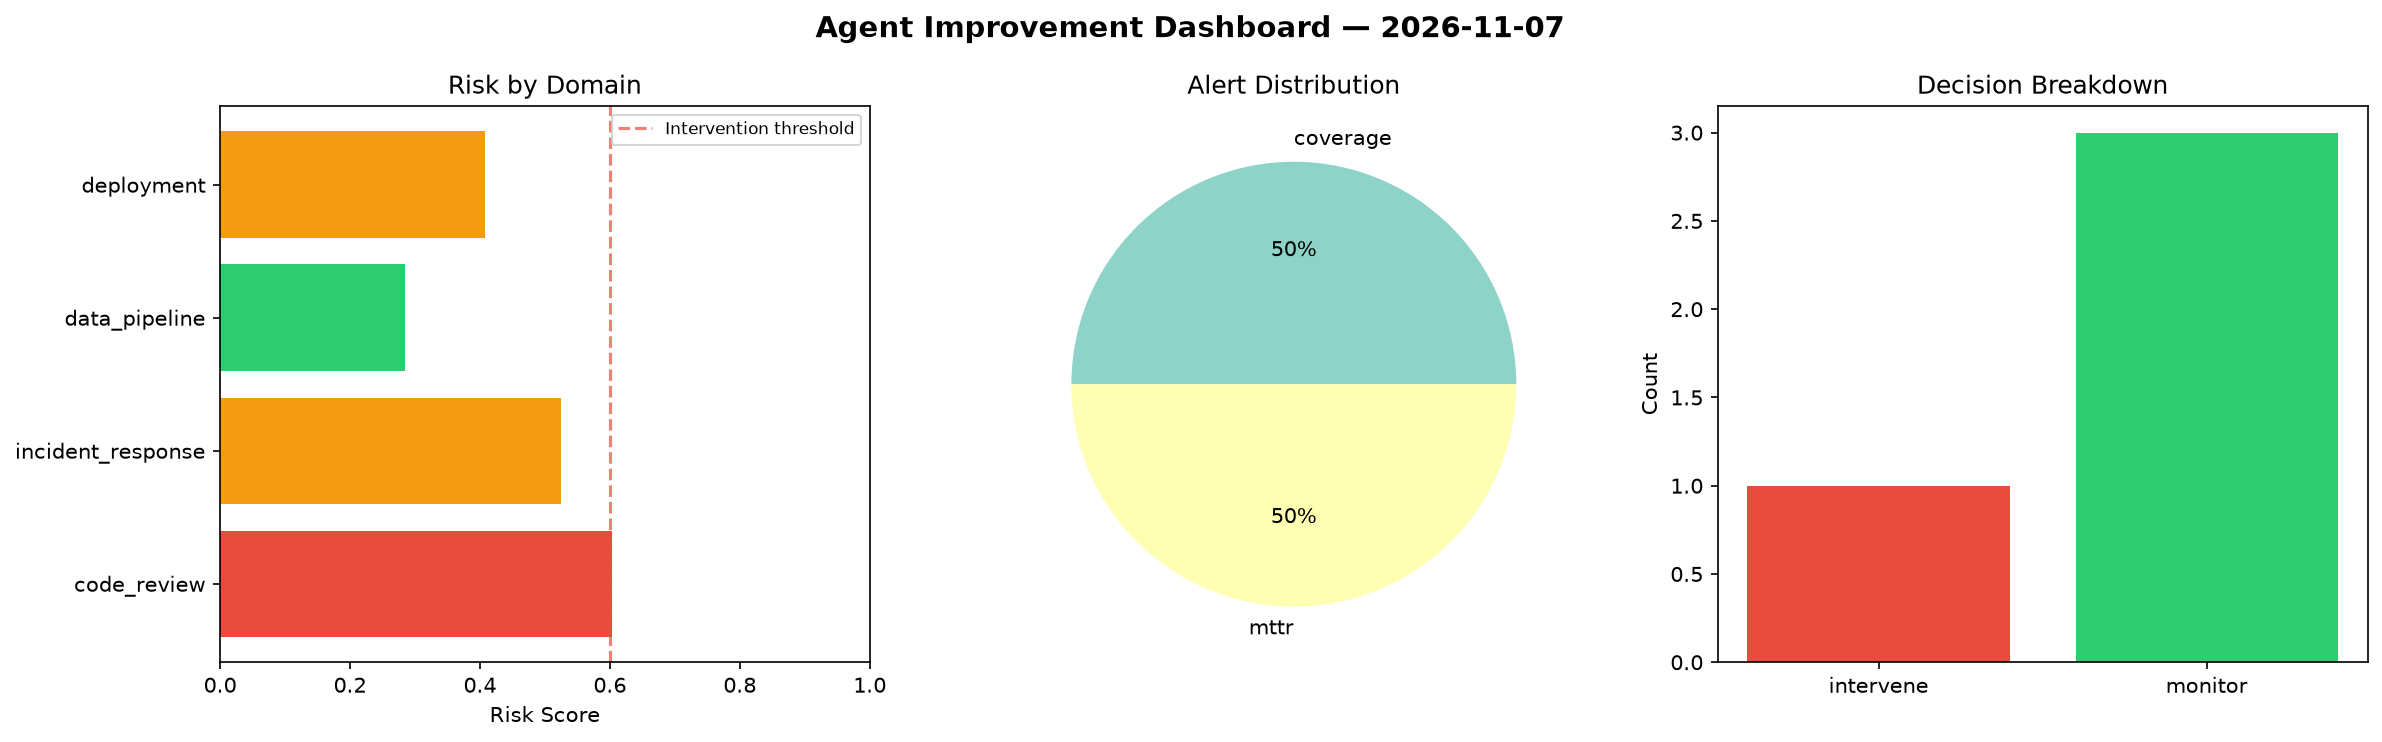
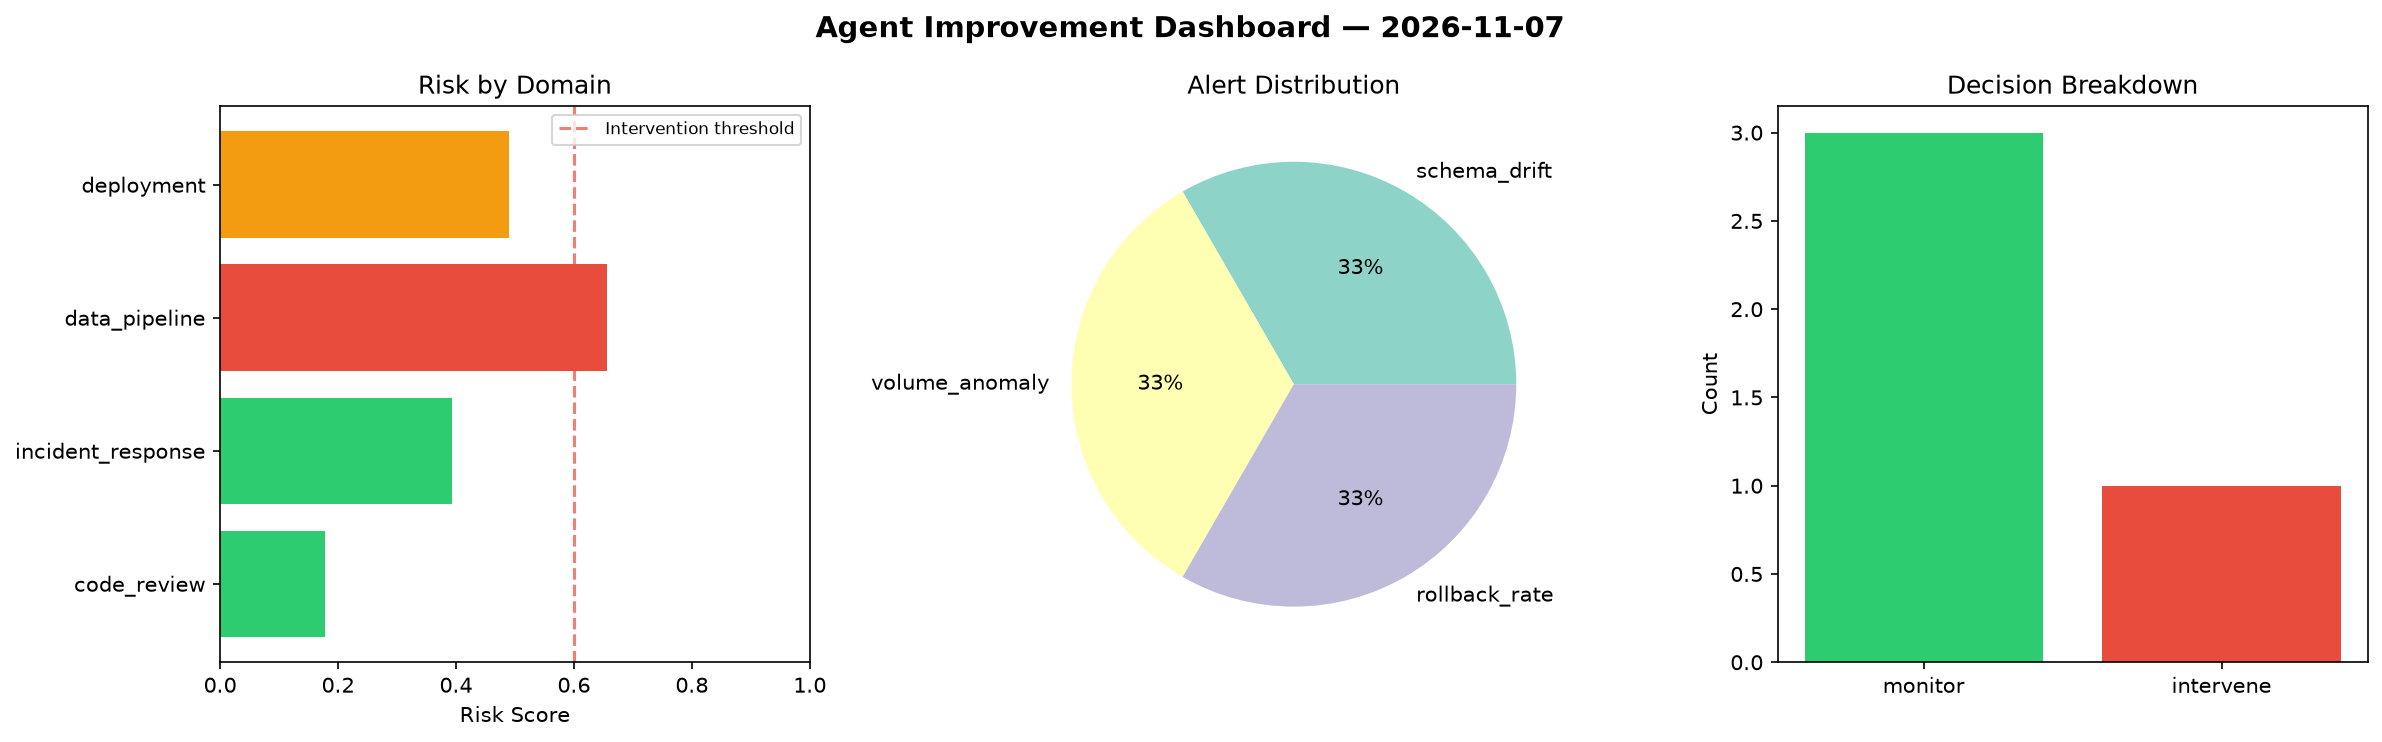
agent-improvement: daily cycle 2026-11-07T18:48

diff --git a/logs/2026-11-07.md b/logs/2026-11-07.md
@@ -1,6 +1,6 @@
 # Agent Improvement Report — 2026-11-07
 
-**Cycle ID:** `65b59298` | **Avg Risk:** 0.4552 | **Interventions:** 1/4
+**Cycle ID:** `8a589900` | **Avg Risk:** 0.4295 | **Interventions:** 1/4
 
 ![Dashboard](2026-11-07_dashboard.png)
 
@@ -10,18 +10,18 @@
 
 | Domain | Risk Score | Decision | Alerts |
 |--------|-----------|----------|--------|
-| code_review | 0.6027 | intervene | coverage |
-| incident_response | 0.5254 | monitor | mttr |
-| data_pipeline | 0.2843 | monitor | none |
-| deployment | 0.4084 | monitor | none |
+| code_review | 0.1772 | monitor | none |
+| incident_response | 0.3937 | monitor | none |
+| data_pipeline | 0.6569 | intervene | schema_drift, volume_anomaly |
+| deployment | 0.4901 | monitor | rollback_rate |
 
 ## Delta vs Yesterday
 
 | Domain | Today | Yesterday | Change |
 |--------|-------|-----------|--------|
-| code_review | 0.6027 | 0.5743 | 📈 4.9% |
-| incident_response | 0.5254 | 0.3866 | 📈 35.9% |
-| data_pipeline | 0.2843 | 0.3181 | 📉 -10.6% |
-| deployment | 0.4084 | 0.6997 | 📉 -41.6% |
+| code_review | 0.1772 | 0.5743 | 📉 -69.1% |
+| incident_response | 0.3937 | 0.3866 | 📈 1.8% |
+| data_pipeline | 0.6569 | 0.3181 | 📈 106.5% |
+| deployment | 0.4901 | 0.6997 | 📉 -30.0% |
 
-**Refinement:** `{'adjustment': 'maintain', 'trend': 'improving', 'window': 4}`
+**Refinement:** `{'adjustment': 'tighten_thresholds', 'trend': 'degrading', 'window': 4}`
